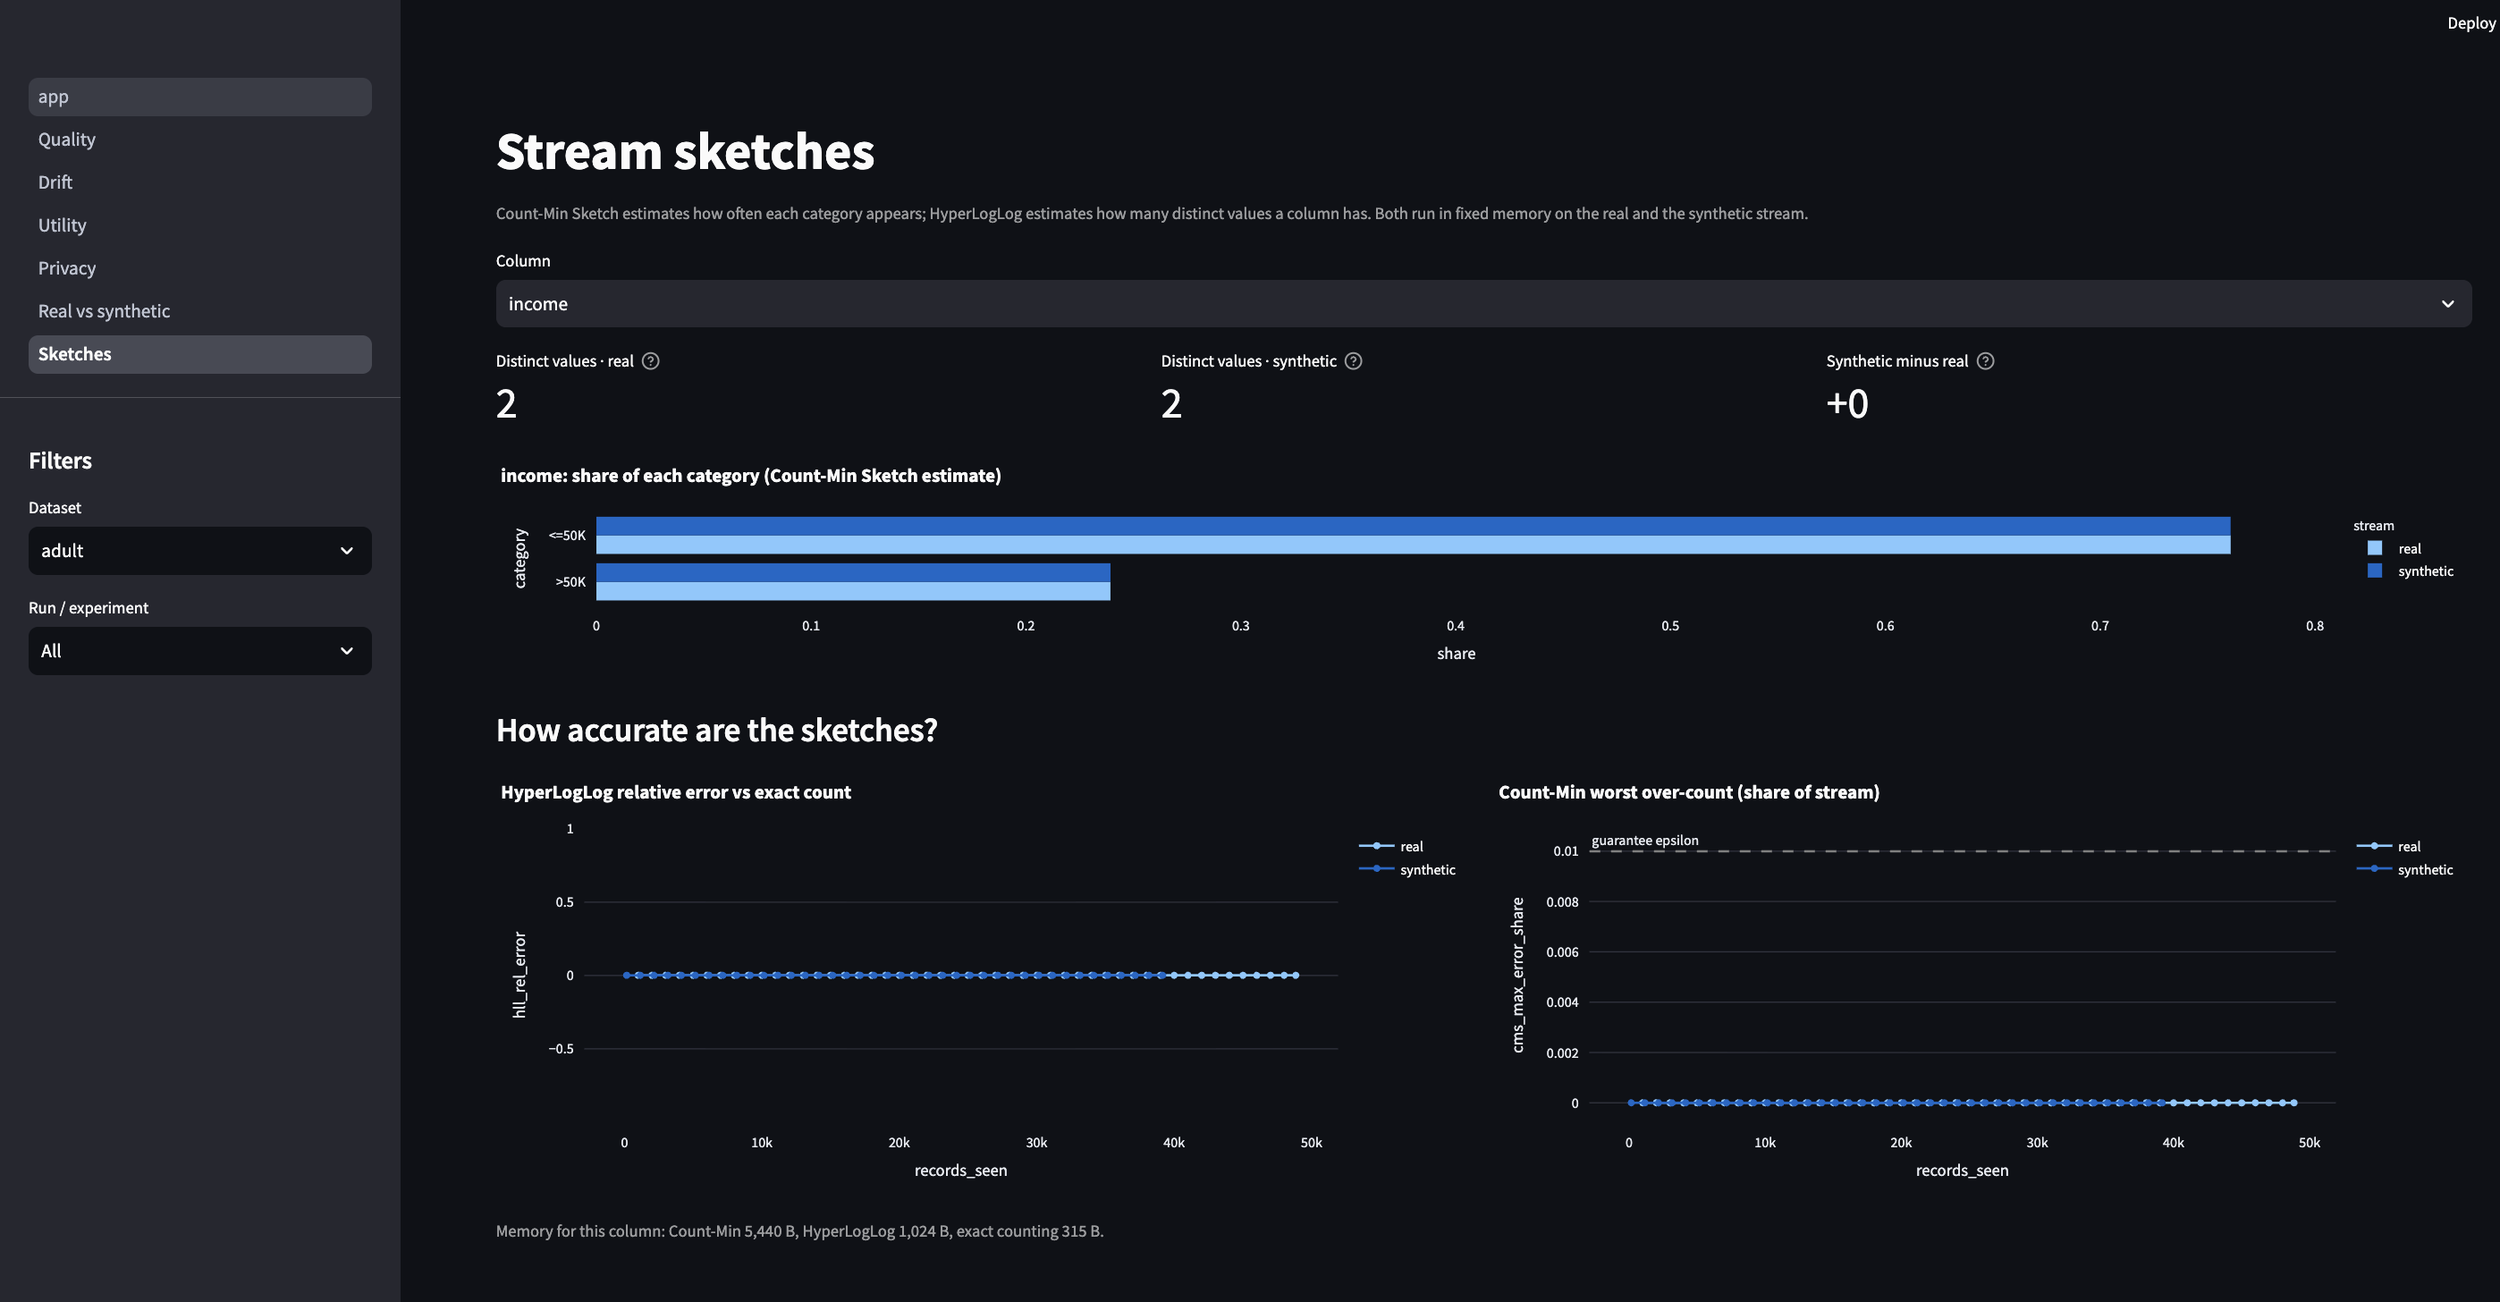
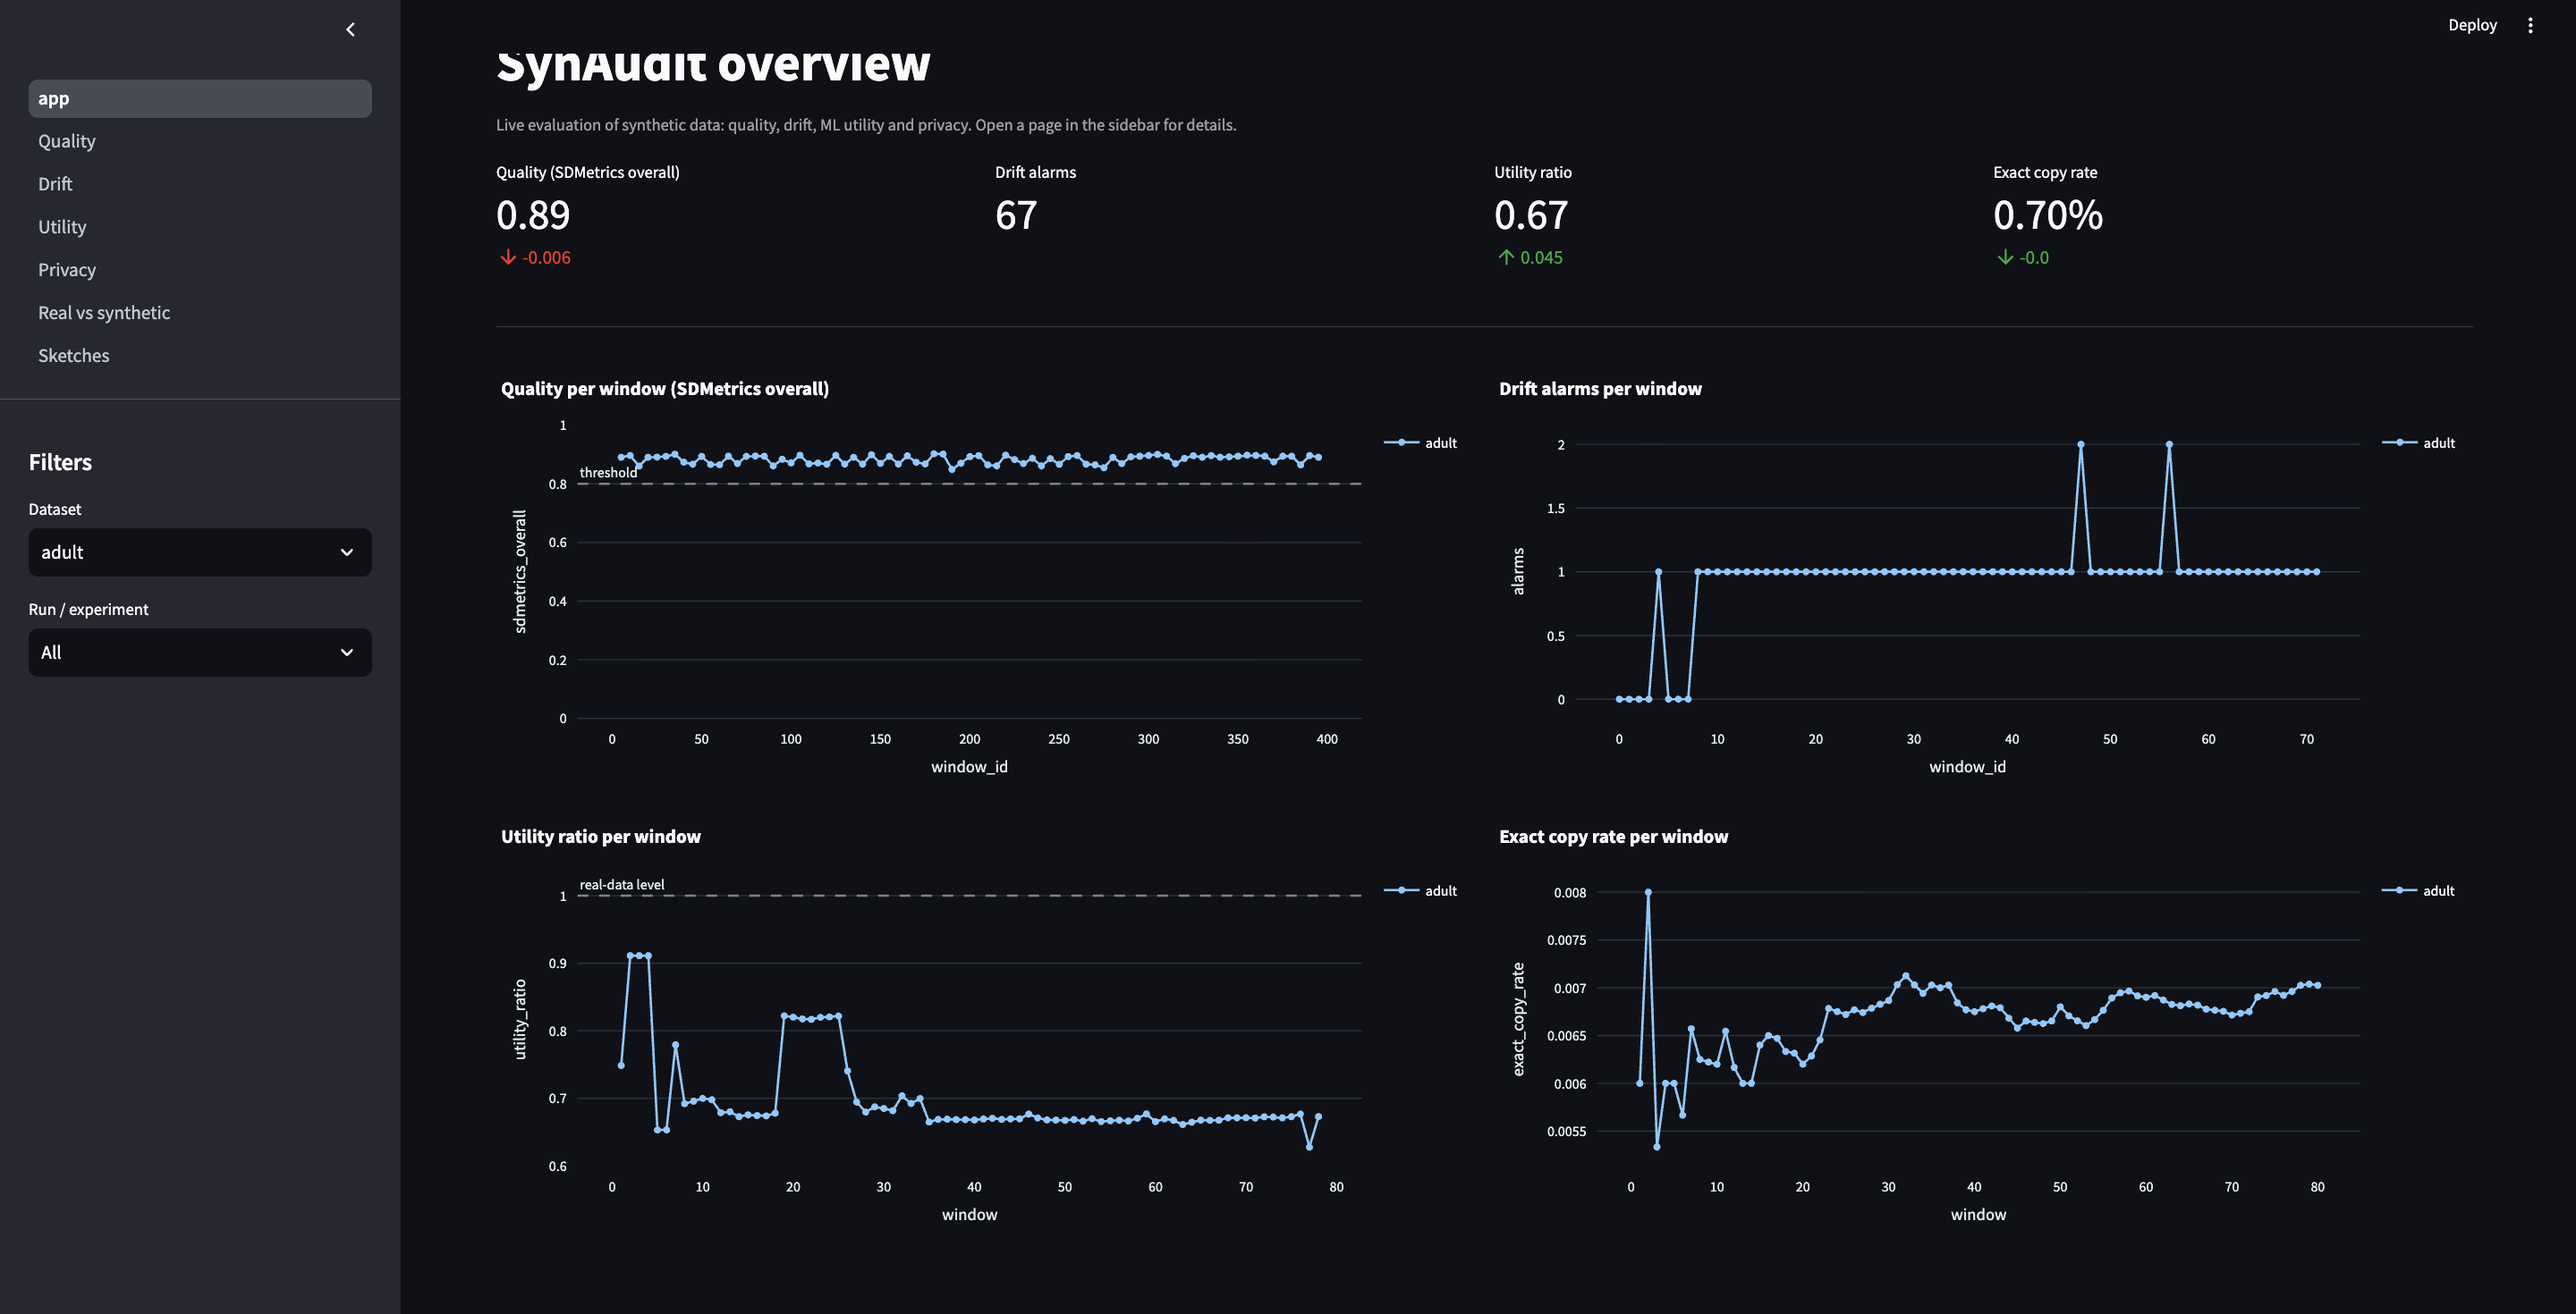
README section 8: storage, sketches and dashboard

diff --git a/README.md b/README.md
@@ -400,9 +400,9 @@ Comparing the real and synthetic sketches shows whether the generator keeps the 
 
 ![Sketches](docs/images/sketches.png)
 
-*Figure 8.2. Category shares of `education` in the real and synthetic Adult streams (Count-Min estimate) and the sketches' error against exact counts.*
+*Figure 8.2. Category shares of `income` in the real and synthetic Adult streams (Count-Min estimate) and the sketches' error against exact counts.*
 
-**Finding.** For low-cardinality columns such as `education` (16 values) or `default_payment_next_month` (2 values), exact counting is cheaper than the sketches (a few hundred bytes against 5,440 + 1,024). Sketches pay off on high-cardinality columns and long streams, where exact memory grows with the number of distinct values while sketch memory stays fixed.
+**Finding.** For low-cardinality columns such as `income` (16 values) or `default_payment_next_month` (2 values), exact counting is cheaper than the sketches (a few hundred bytes against 5,440 + 1,024). Sketches pay off on high-cardinality columns and long streams, where exact memory grows with the number of distinct values while sketch memory stays fixed.
 
 ### 8.4 Integration in Docker
 
